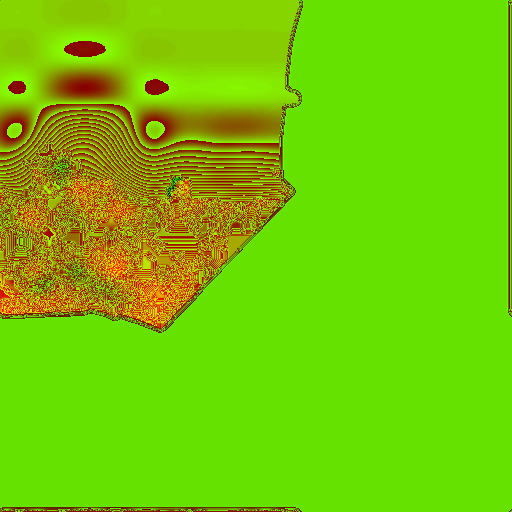
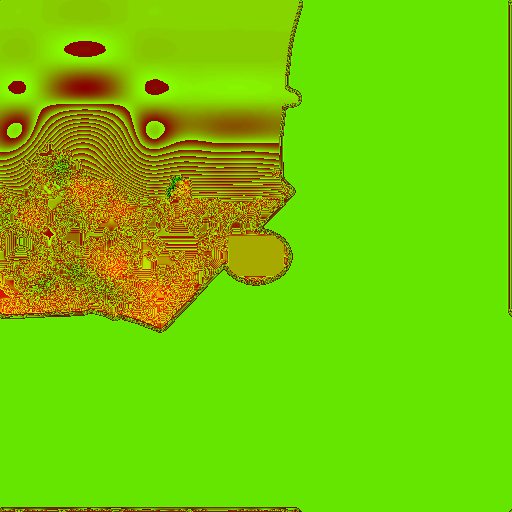
Twenty-five levels merged, and the faults the first suite found
The tests measure a building from its ground, not from a footing carried
sixty metres into a hill; a crossing whose landing never reaches a bank is
no crossing; a flatten pad with a stated height is land in the bake, which
puts the Kuwait Towers back on their point. Edinburgh scores its batteries,
Tokyo Tower's observatory has windows, Neuschwanstein posts men on the
Bower's roof, the Kandawgyi lake has boats.

Claude-Session: https://claude.ai/code/session_01Vm4UdrLmhsEiZM8Dk4Wi6F

Changed region(s): [[0.4375, 0.4375, 0.5938, 0.5625]]

diff --git a/src/ui/testmenu.js b/src/ui/testmenu.js
@@ -545,9 +545,14 @@ export class TestMenu {
     // has been thrown clear drags the whole height range with it and puts the
     // aim point underground.
     const standing = (i) => (st.flags[i] & 1) && !(st.flags[i] & (2 | 8));
+    // Above the ground the structure stands on. A castle on a rock carries its
+    // footing sixty metres down into the hill, and a range measured from the
+    // deepest stone put the middle of Edinburgh Castle seven metres under the
+    // Esplanade: the tap picked ground and the shells went into the rock.
+    const floor = (st.groundY ?? 0) - 0.5;
     let lo = Infinity, hi = -Infinity;
     for (let i = 0; i < st.count; i++) {
-      if (!standing(i)) continue;
+      if (!standing(i) || st.py[i] < floor) continue;
       lo = Math.min(lo, st.py[i]); hi = Math.max(hi, st.py[i]);
     }
     if (!isFinite(lo)) return st.origin.clone();
@@ -2714,6 +2719,7 @@ export class TestMenu {
             let lo = Infinity, hi = -Infinity;
             for (let i = 0; i < st.count; i++) {
               if (!(st.flags[i] & 1) || (st.flags[i] & 10)) continue;
+              if (st.py[i] < (st.groundY ?? 0) - 0.5) continue;   // the footing under a hill is not a target
               lo = Math.min(lo, st.py[i]); hi = Math.max(hi, st.py[i]);
             }
             if (!isFinite(lo)) break;

diff --git a/src/world/context.js b/src/world/context.js
@@ -1611,9 +1611,15 @@ function bridgeLine(terrain, exclude = 66) {
         else if (t > last + 26) break;
       }
       const d = last + 16;
-      return new THREE.Vector3(near.x + nx * sign * d, 0, near.z + nz * sign * d);
+      const p = new THREE.Vector3(near.x + nx * sign * d, 0, near.z + nz * sign * d);
+      // A landing that is still wet is no landing: the search ran off the end
+      // of its nine hundred metres without finding a bank. Mont-Saint-Michel
+      // got a steel arch out of this, from the rock into open sea.
+      return terrain.isWater(p.x, p.z) ? null : p;
     };
-    return { from: bank(-1), to: bank(1) };
+    const from = bank(-1), to = bank(1);
+    if (!from || !to) return null;
+    return { from, to };
   };
 
   // The approach roads run about eighty metres past each landing before they
@@ -1629,6 +1635,7 @@ function bridgeLine(terrain, exclude = 66) {
   let pick = null, fallback = null, fallbackLo = -1;
   for (let i = 0; i < cands.length && !pick; i += 2) {
     const c = crossingAt(cands[i]);
+    if (!c) continue;
     const L = c.from.distanceTo(c.to);
     if (L < 40 || L > span * 1.6) continue;
     const lo = Math.min(Math.hypot(c.from.x, c.from.z), Math.hypot(c.to.x, c.to.z));

diff --git a/src/game/levels.js b/src/game/levels.js
@@ -1340,7 +1340,7 @@ export const LEVELS = {
     // Shiba Park: lawns and paths with a fence round the tower's own plot.
     precinct: { boundary: 'railings', ground: 'lawn', ornament: 'none' },
     // A lattice: no windows to post men in, and the bay is a kilometre off.
-    traits: { windows: false, river: false, topples: true },
+    traits: { windows: true, river: false, topples: true },
     par: { rounds: 40, spend: 6000, minutes: 3, leverage: 6 },
     brief: 'The weight is the observatory at 145 m, not the antenna. The fall is decided at the feet.',
   },
@@ -1487,7 +1487,7 @@ export const LEVELS = {
     turret: { x: EDINBURGH.gun.x, z: EDINBURGH.gun.z, yaw: Math.PI, scale: 1.25, minRange: 60 },
     // The castle's buildings and the Half Moon; the batteries are the rim of
     // the rock and stay as ground.
-    scoreTags: ['halfmoon', 'palace', 'greathall', 'chapel', 'gatehouse', 'barracks'],
+    scoreTags: ['halfmoon', 'palace', 'greathall', 'chapel', 'gatehouse', 'barracks', 'batteries'],
     precinct: { boundary: 'none', ground: 'lawn', ornament: 'none' },
     // A fortress on a hill: walls bonded to the rock, nothing that leans.
     // It comes down course by course or it does not come down.

diff --git a/src/structure/landmarks/neuschwanstein.js b/src/structure/landmarks/neuschwanstein.js
@@ -249,7 +249,7 @@ export function populateNeuschwanstein(g, origin, groundY) {
   const kh = K.blocks[5], bw = K.blocks[6];
   for (const f of [0.25, 0.5, 0.75]) {
     g.place(f === 0.5 ? 'mg' : 'rifleman', V(kh.x0 + (kh.x1 - kh.x0) * f, kh.rows[1] + 0.3, kh.z0 + W + 0.8), Math.PI, 6, { cover: 'window' });
-    g.place(f === 0.5 ? 'mg' : 'rifleman', V(bw.x0 + (bw.x1 - bw.x0) * f, bw.rows[1] + 0.3, bw.z1 - W - 0.8), 0, 6, { cover: 'window' });
+    g.place(f === 0.5 ? 'mg' : 'rifleman', V(bw.x0 + (bw.x1 - bw.x0) * f, bw.rows[1] + 0.3, bw.z1 - W - 0.8), 0, 6, { cover: 'roof' });
   }
   // The gatehouse: anti-tank teams over the approach from the east.
   const gate = K.blocks[2];

diff --git a/src/world/craft.js b/src/world/craft.js
@@ -459,7 +459,7 @@ export const FLEETS = {
   forbidden: ['rowing', 'rowing'],
   gyeongbok: [],
   watarun: ['sampan', 'sampan', 'ferry', 'country-boat'],
-  shwedagon: [],
+  shwedagon: ['sampan', 'rowing'],
   angkor: ['sampan'],
   borobudur: [],
   tikal: [],

diff --git a/tools/bake_overture.py b/tools/bake_overture.py
@@ -1152,6 +1152,28 @@ def bake_mask(sink, level_id, lat0, lon0, span, meta, water, roads=None,
                 drowned = float(swallowed.mean() * 100)
                 w = np.where(swallowed, 0.0, w)
                 print(f"  dropped water the cut swallowed: {drowned:.2f}% of the map")
+        # A flatten pad with a stated height is land by declaration. The
+        # survey's sea polygon is drawn to the scale of a gulf, and the Kuwait
+        # Towers stand on a point of reclaimed rock a hundred metres across
+        # that the polygon simply covers: the level's own origin came out four
+        # metres under water and the podium levelled itself into a white island.
+        # The pad's height says what the ground is there, so the water is
+        # cleared off it and the dredge below never touches it.
+        for pad in LEVELS[level_id].get("flatten", []):
+            if len(pad) < 5:
+                continue
+            px, pn, rad, feather = pad[0], pad[1], pad[2], pad[3]
+            rx, rz = (rad if isinstance(rad, (list, tuple)) else (rad, rad))
+            rx, rz = float(rx) + feather * 0.5, float(rz) + feather * 0.5
+            k = size / (2.0 * span)
+            gx = (np.arange(size) - size / 2.0) / k
+            ex = (gx[None, :] - px) / rx
+            nn = (-gx[:, None] - pn) / rz
+            on_pad = (ex * ex + nn * nn) <= 1.0
+            if (w[on_pad] > 0.5).any():
+                print(f"  cleared the water off the {rx:.0f} m pad at ({px}, {pn}): "
+                      f"{float((w[on_pad] > 0.5).mean() * 100):.0f}% of it was under the survey's sea")
+                w = np.where(on_pad, 0.0, w)
         # Replaced, not unioned: where a real shoreline exists it is the
         # shoreline, and the level's own typed river was skipped upstream.
         mask[:, :, 0] = w
